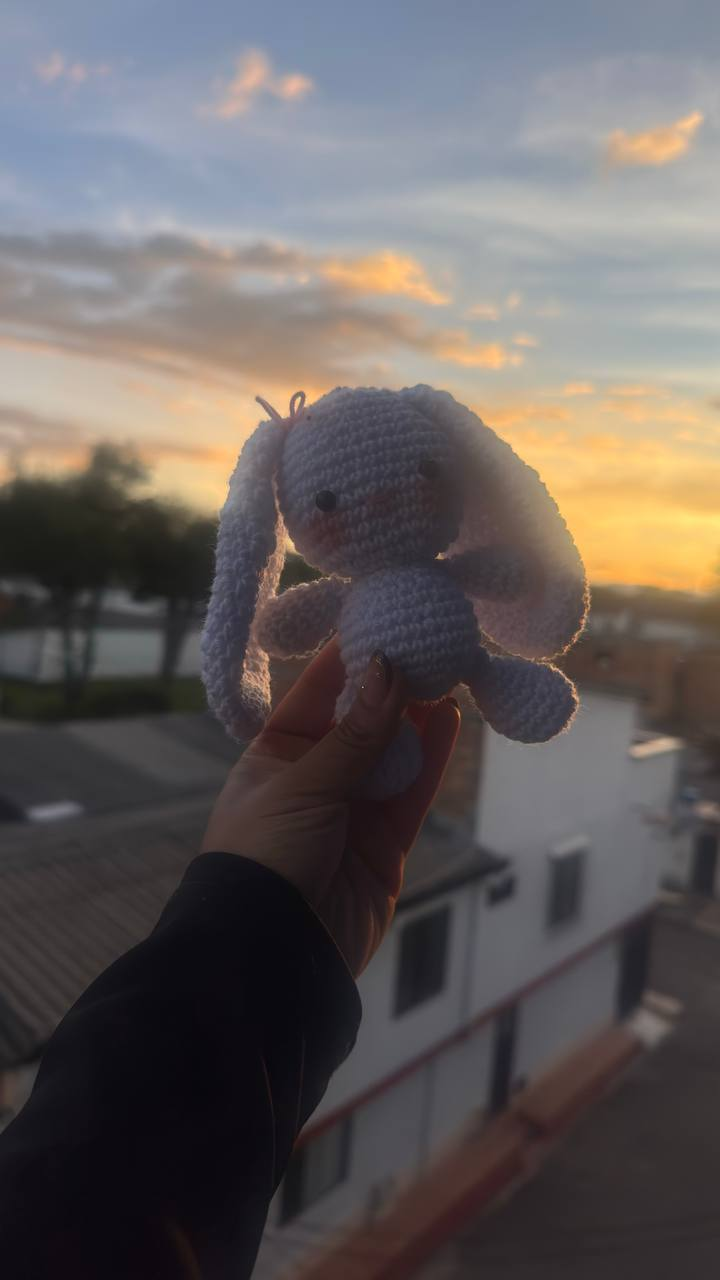
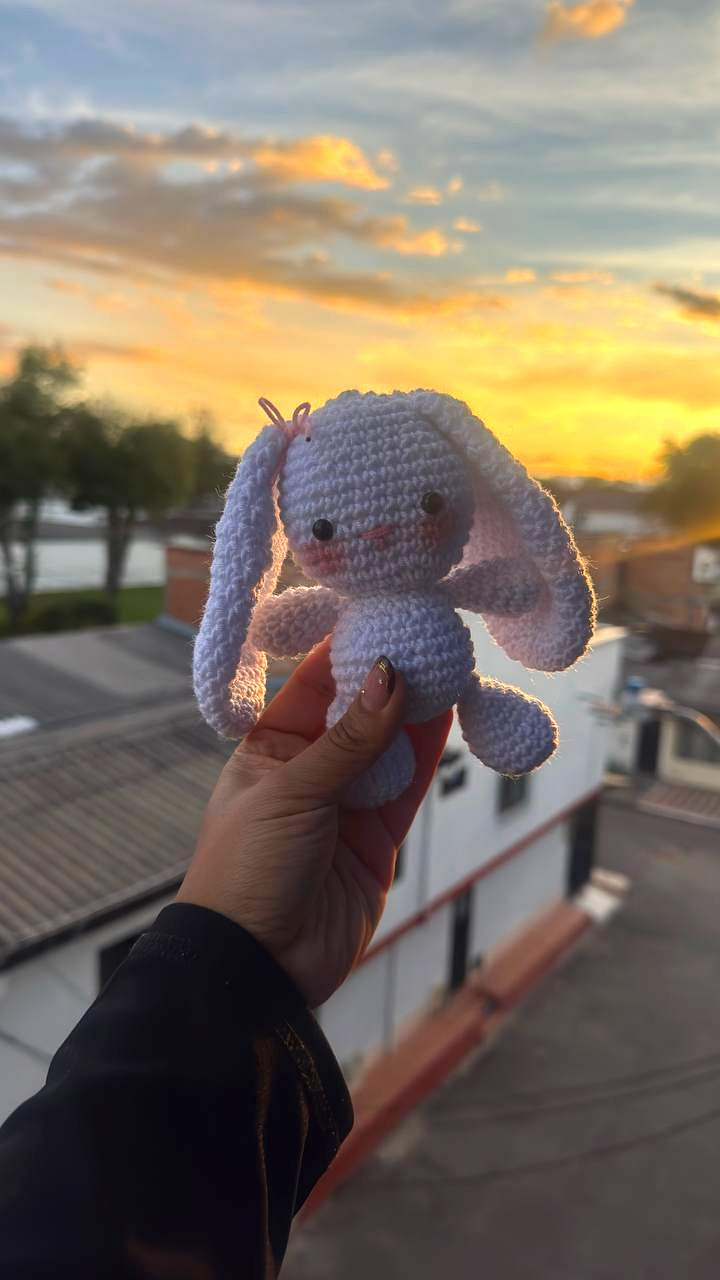
Amimax: foto del conejito mejorada + sección Instagram con el post

diff --git a/amimax/index.html b/amimax/index.html
@@ -183,6 +183,13 @@ footer{padding:48px 0 40px;text-align:center}
 .foot-links a{opacity:.85;transition:.2s}.foot-links a:hover{color:var(--rose-deep);opacity:1}
 .credit{font-size:.82rem;opacity:.6;margin-top:18px}
 
+/* INSTAGRAM */
+.insta-feat{display:flex;flex-direction:column;align-items:center;gap:22px}
+.insta-frame{display:block;width:100%;max-width:380px;border-radius:26px;overflow:hidden;
+  border:8px solid #fff;box-shadow:var(--shadow);transition:transform .35s, box-shadow .35s}
+.insta-frame:hover{transform:translateY(-6px) rotate(-.6deg);box-shadow:0 26px 50px -18px rgba(150,90,80,.45)}
+.insta-frame img{display:block;width:100%;height:auto}
+
 @media(max-width:860px){
   .hero-grid{grid-template-columns:1fr;gap:52px}
   .photo-card{max-width:340px;margin:0 auto}
@@ -211,6 +218,7 @@ footer{padding:48px 0 40px;text-align:center}
       <a class="n" href="#sobre">Sobre Amimax</a>
       <a class="n" href="#pedir">Cómo pedir</a>
       <a class="n" href="#condiciones">Condiciones</a>
+      <a class="n" href="#insta">Instagram</a>
       <a class="btn" href="https://wa.me/[phone redacted]?text=Hola%20Amimax!%20Quiero%20encargar%20un%20amigurumi%20%F0%9F%A7%B6" target="_blank">💬 Pedir por WhatsApp</a>
     </div>
   </div>
@@ -373,6 +381,23 @@ footer{padding:48px 0 40px;text-align:center}
         </div>
       </div>
 
+    </div>
+  </div>
+</section>
+
+<!-- INSTAGRAM -->
+<section class="pad" id="insta">
+  <div class="wrap">
+    <div class="sec-head">
+      <div class="tag">En Instagram</div>
+      <h2>Seguí a Amimax en <span class="rose">@amimax_26</span></h2>
+      <p>Mirá los muñequitos en el feed y escribinos por DM o WhatsApp. 🐰💗</p>
+    </div>
+    <div class="insta-feat">
+      <a href="https://instagram.com/amimax_26" target="_blank" class="insta-frame">
+        <img src="img/post.jpg" alt="Publicación de Amimax en Instagram — conejito amigurumi">
+      </a>
+      <a class="btn" href="https://instagram.com/amimax_26" target="_blank">📷 Ver en Instagram</a>
     </div>
   </div>
 </section>